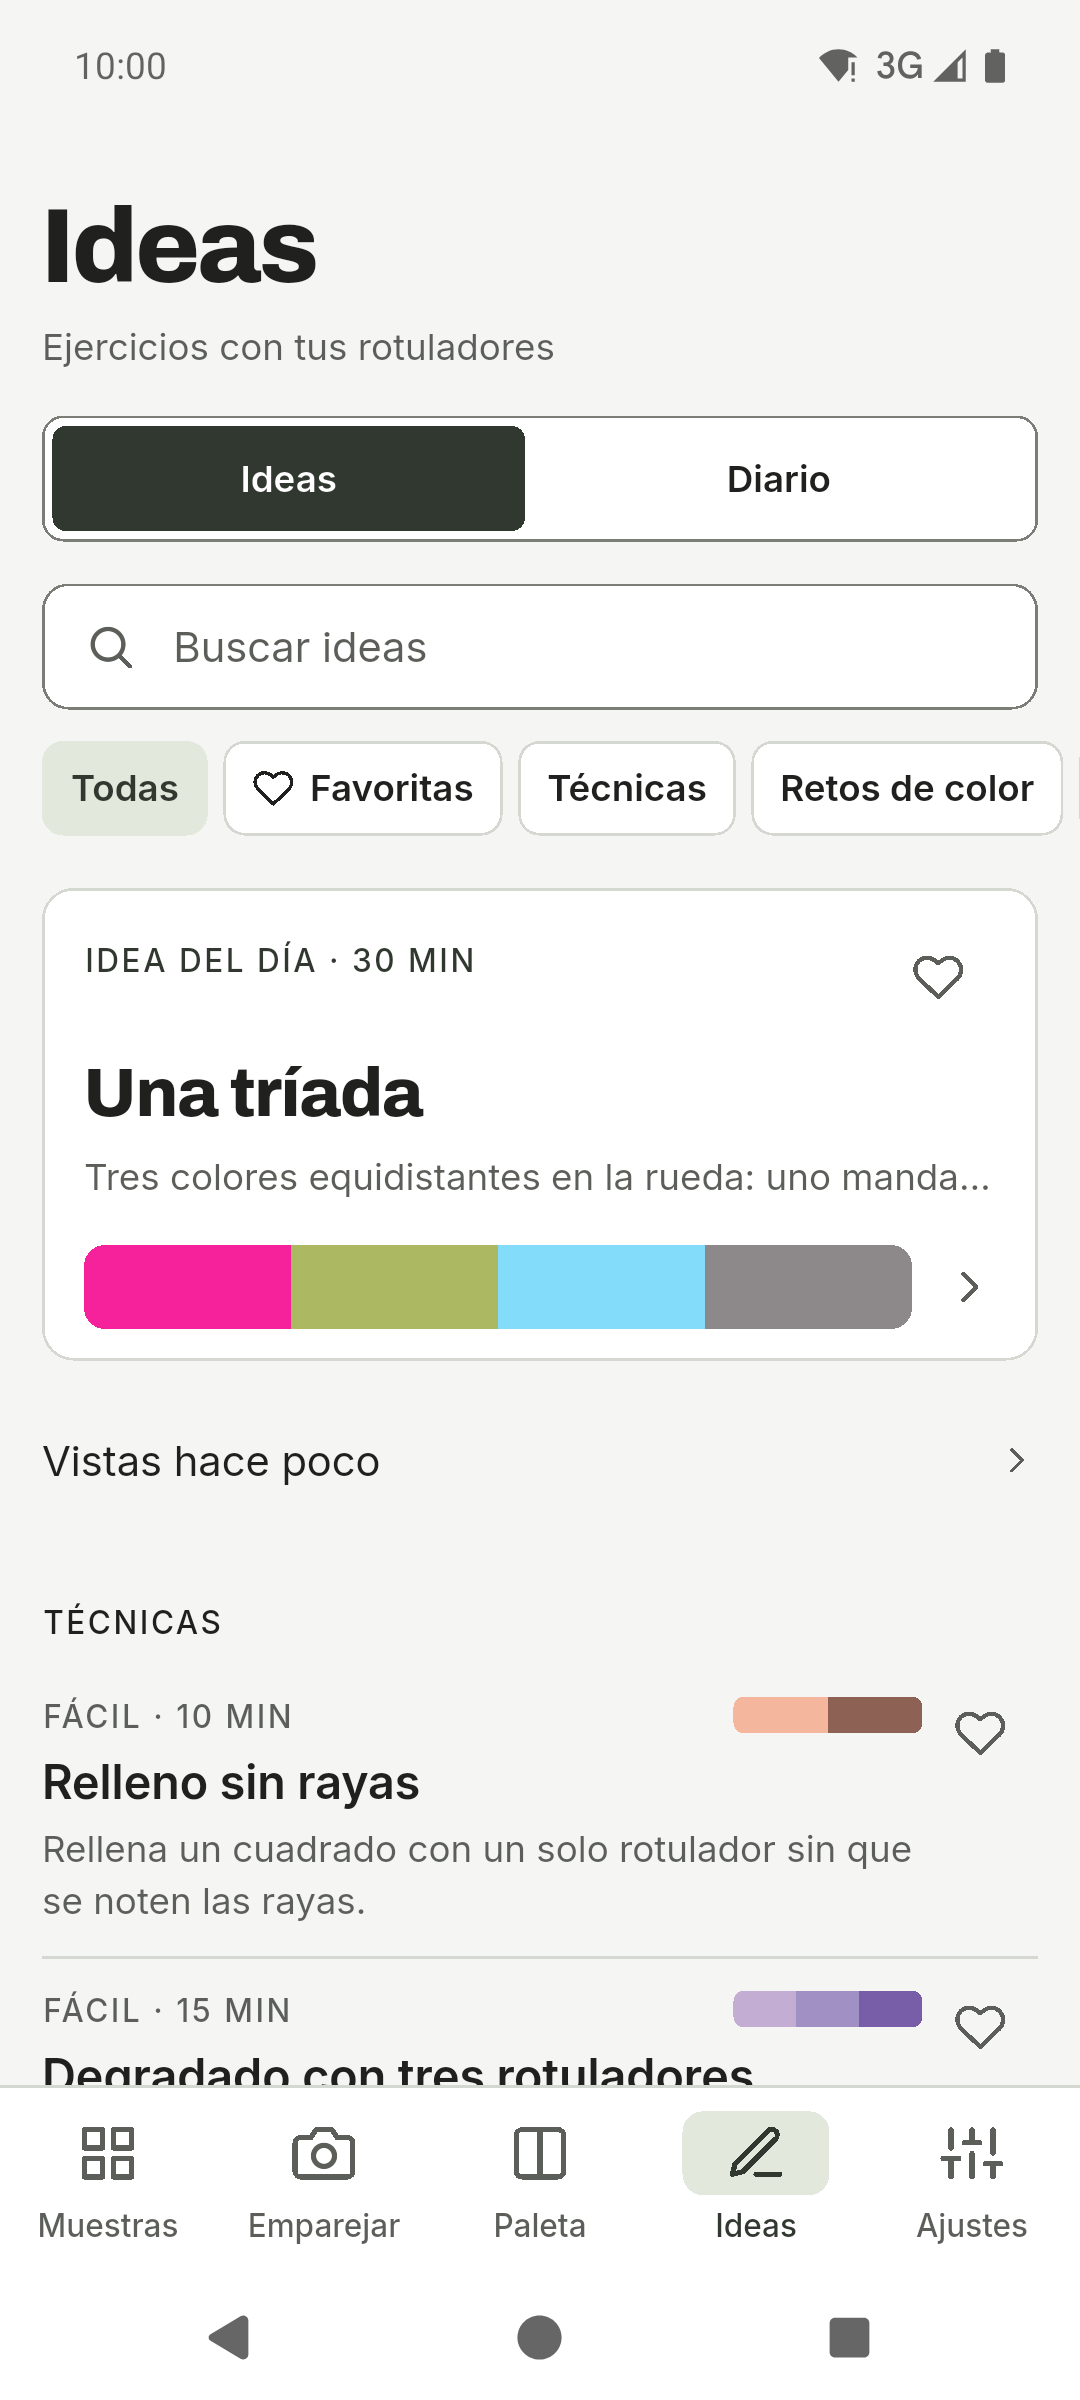
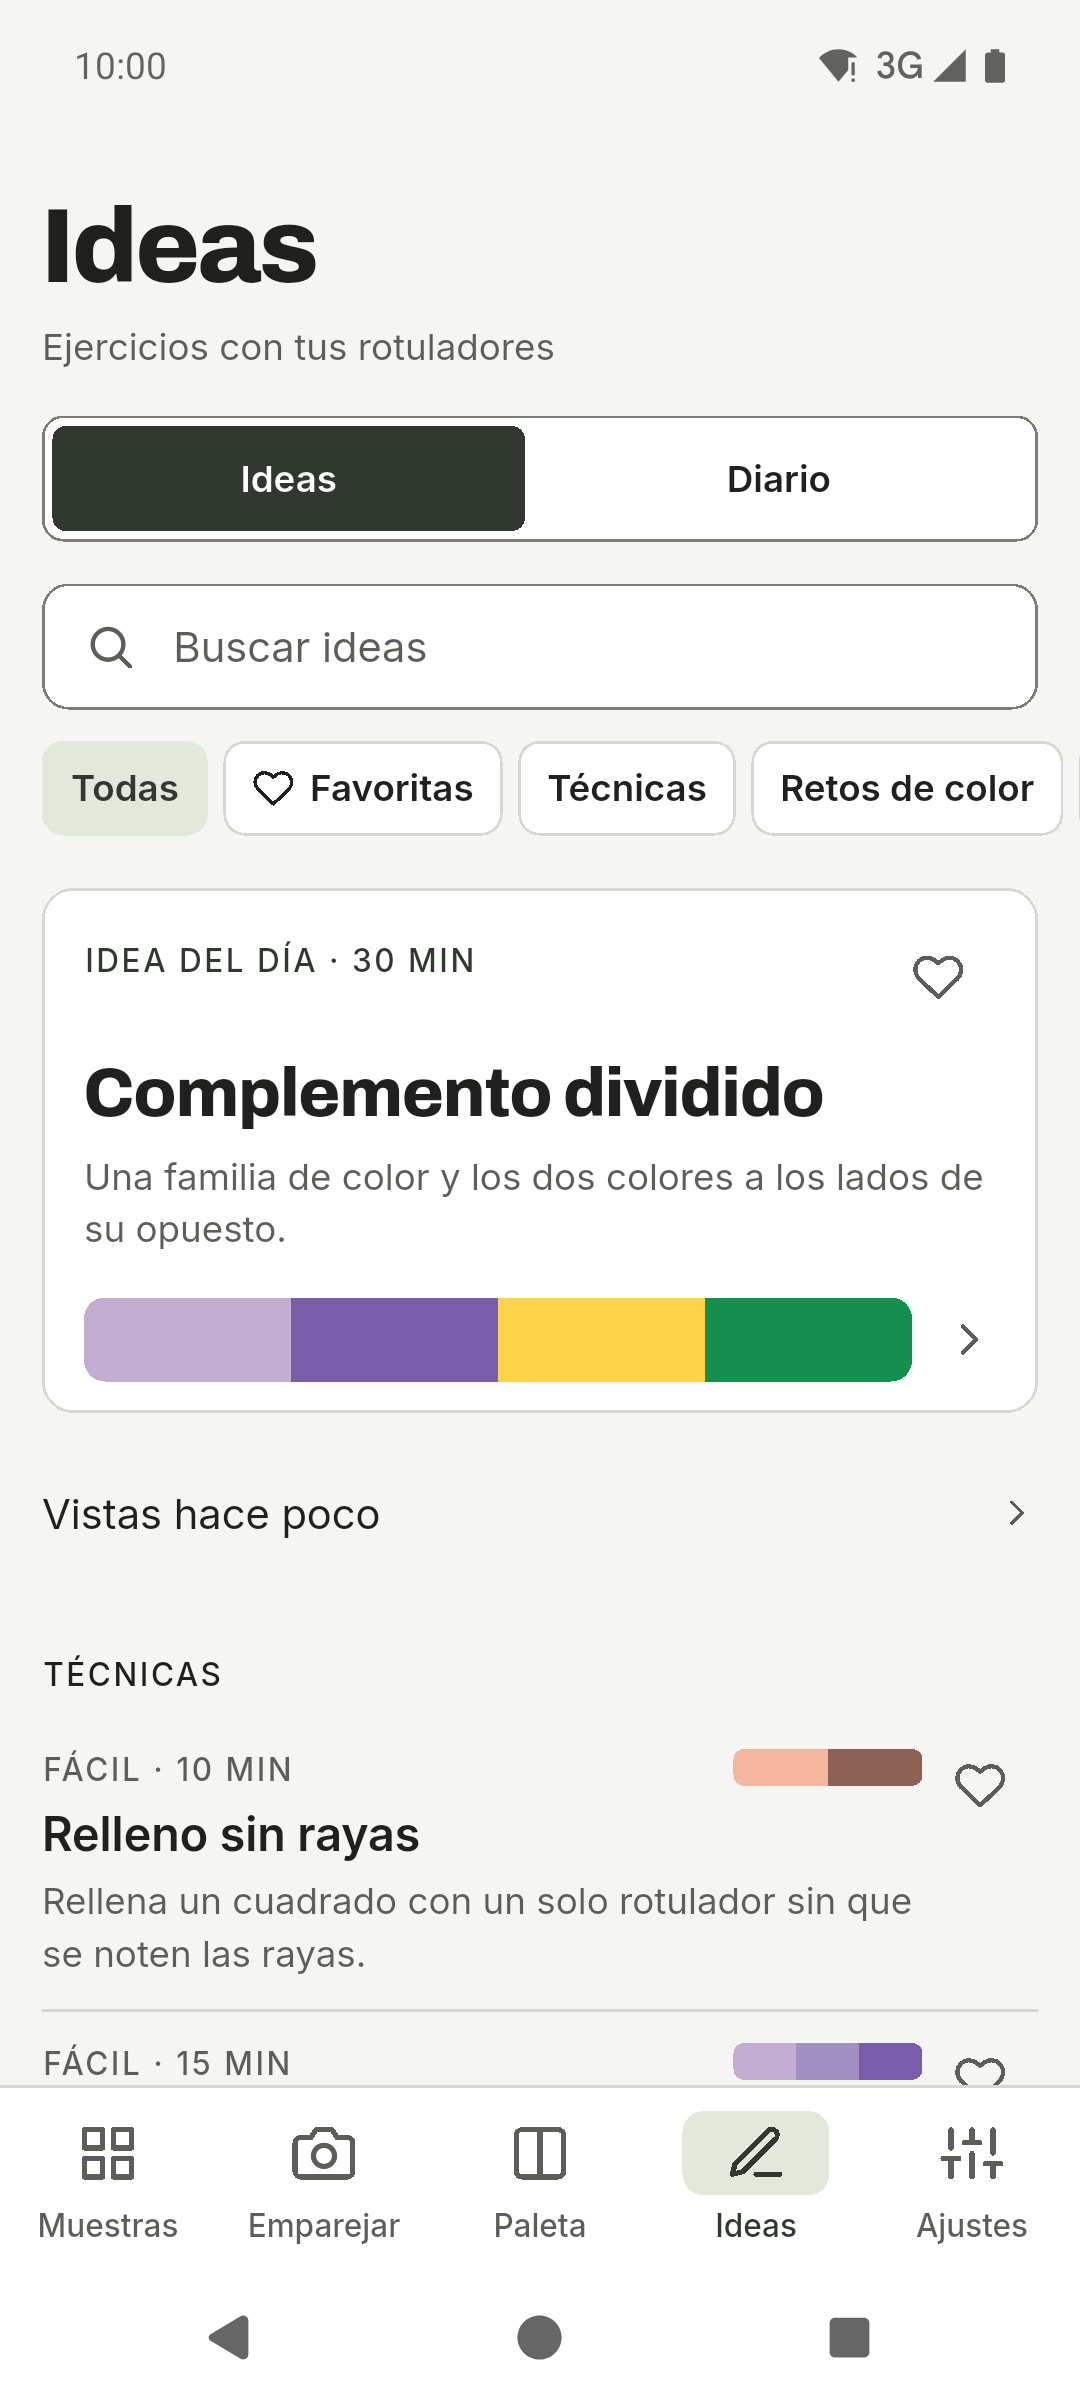
Ink Lab 1.2.1
- Idea descriptions now show in full, in the idea sheet and on the idea of the day, instead of being cut
  with «…».
- The idea sheet opens a little higher, so «Use in Palette» is always on view.
- Closing an idea no longer puts the cursor and keyboard back in the search field.
- Two-line colour names fit their card in the Swatches grid at large text sizes.

diff --git a/test/ui/ideas/ideas_page_test.dart b/test/ui/ideas/ideas_page_test.dart
@@ -30,6 +30,10 @@ List<String> _markerSteps(IdeaPreset preset) => <String>[
 ];
 
 void main() {
+  // The real fonts: the summary wraps in full now, and the test font (one em
+  // per glyph) would make it far longer than any language does.
+  setUpAll(loadAppFonts);
+
   testWidgets('renders the intro, the idea of the day and the list', (
     WidgetTester tester,
   ) async {
@@ -100,7 +104,10 @@ void main() {
     // What you practise, what to draw, the tip and the materials are folded
     // behind "More details".
     expect(_key('ideas-details-one_color'), findsOneWidget);
-    expect(find.text(AppTypography.caps(l10n.ideasPracticeTitle)), findsNothing);
+    expect(
+      find.text(AppTypography.caps(l10n.ideasPracticeTitle)),
+      findsNothing,
+    );
     await tester.tap(_key('ideas-details-one_color'));
     await tester.pumpAndSettle();
     for (final String title in <String>[
@@ -142,31 +149,37 @@ void main() {
     expect(after, isNot(before));
   });
 
-  testWidgets('the sheet opens at half height with "Use in Palette" on view', (
-    WidgetTester tester,
-  ) async {
-    await pumpIdeas(tester, size: const Size(360, 740));
-    final IdeaPreset featured = IdeasEngine.featuredFor(DateTime(2026, 10, 29));
+  testWidgets(
+    'the sheet opens a little above half height with "Use in Palette" on view',
+    (WidgetTester tester) async {
+      await pumpIdeas(tester, size: const Size(360, 740));
+      final IdeaPreset featured = IdeasEngine.featuredFor(
+        DateTime(2026, 10, 29),
+      );
 
-    await tester.tap(_key('ideas-open-${featured.id}'));
-    await tester.pumpAndSettle();
+      await tester.tap(_key('ideas-open-${featured.id}'));
+      await tester.pumpAndSettle();
 
-    final Rect sheet = tester.getRect(find.byType(InkSheet));
-    // Half of 740.
-    expect(sheet.top, moreOrLessEquals(370, epsilon: 2));
-    // The primary action is on view without scrolling.
-    final Finder apply = _key('ideas-apply-${featured.id}');
-    expect(apply, findsOneWidget);
-    final Rect button = tester.getRect(apply);
-    expect(button.bottom, lessThanOrEqualTo(sheet.bottom + 0.5));
-    expect(button.height, greaterThanOrEqualTo(InkGeometry.target));
-    // The "⋯" menu offers the diary and other markers.
-    await tester.tap(find.byTooltip(l10n.commonMoreActions));
-    await tester.pumpAndSettle();
-    expect(find.text(l10n.diaryAdd), findsOneWidget);
-    expect(find.text(l10n.ideasOtherMarkersButton), findsOneWidget);
-    expect(_key('ideas-other-${featured.id}'), findsOneWidget);
-  });
+      final Rect sheet = tester.getRect(find.byType(InkSheet));
+      // 60 % of 740.
+      expect(
+        sheet.top,
+        moreOrLessEquals(740 * (1 - ideaSheetHeight), epsilon: 2),
+      );
+      // The primary action is on view without scrolling.
+      final Finder apply = _key('ideas-apply-${featured.id}');
+      expect(apply, findsOneWidget);
+      final Rect button = tester.getRect(apply);
+      expect(button.bottom, lessThanOrEqualTo(sheet.bottom + 0.5));
+      expect(button.height, greaterThanOrEqualTo(InkGeometry.target));
+      // The "⋯" menu offers the diary and other markers.
+      await tester.tap(find.byTooltip(l10n.commonMoreActions));
+      await tester.pumpAndSettle();
+      expect(find.text(l10n.diaryAdd), findsOneWidget);
+      expect(find.text(l10n.ideasOtherMarkersButton), findsOneWidget);
+      expect(_key('ideas-other-${featured.id}'), findsOneWidget);
+    },
+  );
 
   testWidgets('"Use in Palette" hands over roles, opens Palette and confirms', (
     WidgetTester tester,

diff --git a/lib/ui/widgets/color_swatch_tile.dart b/lib/ui/widgets/color_swatch_tile.dart
@@ -200,6 +200,10 @@ class ColorSwatchTile extends StatelessWidget {
       _codeLine = 22;
   static const double _nameLine = 20, _hexLine = 16, _minBlock = 32;
 
+  // The font sizes behind those line heights (the code is 16/22, the name
+  // 14/20, the hex 12/16): the system scales the font size, not the line.
+  static const double _codeSize = 16, _nameSize = 14, _hexSize = 12;
+
   /// The height of a grid cell that holds the colour block, the code, two name
   /// lines and the hex line (spec §4 "Swatch cell").
   ///
@@ -207,20 +211,23 @@ class ColorSwatchTile extends StatelessWidget {
   /// with fixed lines a second name line would be cut at the card's bottom edge
   /// at large text sizes. A cell without the hex (the grid) is one line
   /// shorter.
-  static double gridCellHeight(
-    BuildContext context, {
-    bool showHex = true,
-  }) =>
+  static double gridCellHeight(BuildContext context, {bool showHex = true}) =>
       InkGeometry.swatchBlockHeight +
       _bodyTop +
       _bodyBottom +
-      _line(context, _codeLine) +
-      2 * _line(context, _nameLine) +
-      (showHex ? _line(context, _hexLine) : 0);
+      _line(context, _codeLine, _codeSize) +
+      2 * _line(context, _nameLine, _nameSize) +
+      (showHex ? _line(context, _hexLine, _hexSize) : 0);
 
-  /// [height], a line height at scale 1, as the system text scale makes it.
-  static double _line(BuildContext context, double height) =>
-      MediaQuery.textScalerOf(context).scale(height);
+  /// [height], a line height at scale 1 of a text of [fontSize], as the system
+  /// text scale makes it.
+  ///
+  /// The scaler is asked for the font size, as the text does: Android scales
+  /// text non-linearly (a 14 sp name grows more than a 20 sp line would), so
+  /// scaling the line itself came out too short at large text sizes and cut
+  /// the second line of a name at the card's bottom edge.
+  static double _line(BuildContext context, double height, double fontSize) =>
+      MediaQuery.textScalerOf(context).scale(fontSize) * height / fontSize;
 
   /// The grid delegate for a grid of [ColorSwatchTile]s, from the system text
   /// scale and whether the cells show the hex (the grid leaves it out).
@@ -240,9 +247,9 @@ class ColorSwatchTile extends StatelessWidget {
     final InkColors ink = InkColors.of(context);
     final Color background = swatchColor(hex);
     final Color onSwatch = inkOn(background);
-    final double codeLine = _line(context, _codeLine);
-    final double nameLine = _line(context, _nameLine);
-    final double hexLine = _line(context, _hexLine);
+    final double codeLine = _line(context, _codeLine, _codeSize);
+    final double nameLine = _line(context, _nameLine, _nameSize);
+    final double hexLine = _line(context, _hexLine, _hexSize);
 
     return Semantics(
       button: onTap != null,
@@ -300,7 +307,8 @@ class ColorSwatchTile extends StatelessWidget {
                   // A second name line only when the block keeps its 72.
                   final double secondLine =
                       nameLine + InkGeometry.swatchBlockHeight - _minBlock;
-                  if (nameLines == 1 && budget >= secondLine) {
+                  // (a hair of tolerance for the rounding of scaled lines)
+                  if (nameLines == 1 && budget + 0.01 >= secondLine) {
                     nameLines = 2;
                   }
                 }

diff --git a/lib/ui/pages/ideas/ideas_page.dart b/lib/ui/pages/ideas/ideas_page.dart
@@ -263,8 +263,15 @@ class _IdeasPageState extends State<IdeasPage> {
     if (favorites != null) {
       unawaited(favorites.recordViewed(preset.id).catchError((Object _) {}));
     }
+    // Let go of the search field first: the route would give it the focus
+    // back when the sheet closes (cursor and keyboard back on the page).
+    FocusManager.instance.primaryFocus?.unfocus();
     final IdeaPlan? applied = await showInkDraggableSheet<IdeaPlan>(
       context: context,
+      // A little above half height, so "Use in Palette" stays on view when
+      // the title or the summary takes a few lines (de, fr).
+      initial: ideaSheetHeight,
+      snaps: const <double>[ideaSheetHeight],
       builder: (BuildContext context, ScrollController scroll) =>
           IdeaDetailSheet(
             initial: initial,
@@ -683,6 +690,11 @@ class _IdeasPageState extends State<IdeasPage> {
 
 /// How many ideas of each category the overview ("All") shows before its
 /// "See all" row.
+/// How high an idea sheet opens, as a share of the screen: enough for
+/// "Use in Palette" to be on view on a 740 dp phone with the longest title
+/// and summary in every language.
+const double ideaSheetHeight = 0.6;
+
 const int _overviewShown = 3;
 
 /// A caps heading above a run of ideas (a difficulty, a season, a category).
@@ -847,7 +859,9 @@ class _FeaturedCard extends StatelessWidget {
                             message: eyebrow,
                             child: Text(
                               eyebrow,
-                              maxLines: 1,
+                              // Two lines at most: at large text the
+                              // minutes would otherwise be cut off.
+                              maxLines: 2,
                               overflow: TextOverflow.ellipsis,
                               style: AppTypography.capsStyle.copyWith(
                                 color: ink.action,
@@ -875,14 +889,10 @@ class _FeaturedCard extends StatelessWidget {
                     ),
                   ),
                   const SizedBox(height: InkSpacing.group),
-                  Tooltip(
-                    message: summary,
-                    child: Text(
-                      summary,
-                      maxLines: 1,
-                      overflow: TextOverflow.ellipsis,
-                      style: AppTypography.secondary.copyWith(color: ink.fg2),
-                    ),
+                  // The whole description, wrapped, like the list rows.
+                  Text(
+                    summary,
+                    style: AppTypography.secondary.copyWith(color: ink.fg2),
                   ),
                   const SizedBox(height: InkSpacing.block),
                   Row(

diff --git a/lib/ui/pages/ideas/idea_detail_sheet.dart b/lib/ui/pages/ideas/idea_detail_sheet.dart
@@ -16,7 +16,7 @@ import '../../widgets/palette_strip.dart';
 import 'ideas_page.dart' show IdeaHeartButton, ideaMetaLine;
 
 /// The detail of one idea, inside a draggable ink sheet (0.9 review §2.3):
-/// the title with its heart, the meta line, a one-line summary, the palette
+/// the title with its heart, the meta line, the summary, the palette
 /// picked from the collection with "Use in Palette" as the only action on
 /// view, the steps and, folded away, what you practise, what to draw, a tip
 /// and the materials.
@@ -168,15 +168,10 @@ class _IdeaDetailSheetState extends State<IdeaDetailSheet> {
           style: AppTypography.capsStyle.copyWith(color: ink.fg2),
         ),
         const SizedBox(height: InkSpacing.group),
-        // One line: the whole summary is one long-press away.
-        Tooltip(
-          message: l10n.ideaSummary(_preset),
-          child: Text(
-            l10n.ideaSummary(_preset),
-            maxLines: 1,
-            overflow: TextOverflow.ellipsis,
-            style: AppTypography.secondary.copyWith(color: ink.fg2),
-          ),
+        // The whole summary, wrapped: it is the idea's description.
+        Text(
+          l10n.ideaSummary(_preset),
+          style: AppTypography.secondary.copyWith(color: ink.fg2),
         ),
         const SizedBox(height: InkSpacing.block),
         ..._buildMarkers(context, caps, body, palette),

diff --git a/lib/core/app_version.dart b/lib/core/app_version.dart
@@ -2,4 +2,4 @@
 ///
 /// Keep it equal to the `version:` (before the `+`) in `pubspec.yaml`; a test
 /// (`test/core/app_version_test.dart`) fails when they drift apart.
-const String appVersion = '1.2.0';
+const String appVersion = '1.2.1';

diff --git a/CHANGELOG.md b/CHANGELOG.md
@@ -10,6 +10,16 @@ and the App Store may get several at once, so they can skip numbers.
 
 ## Unreleased
 
+## 1.2.1 · 2026-11-09
+
+Small fixes to the Ideas tab and the Swatches grid.
+
+- Idea descriptions now show in full, in the idea sheet and on the idea of the day, instead of being cut
+  with «…».
+- The idea sheet opens a little higher, so «Use in Palette» is always on view.
+- Closing an idea no longer puts the cursor and keyboard back in the search field.
+- Two-line colour names fit their card in the Swatches grid at large text sizes.
+
 ## 1.2.0 · 2026-11-08
 
 100 ideas instead of 28, organised so they are easy to browse, and a tidier side menu on tablets.

diff --git a/README.fr.md b/README.fr.md
@@ -140,7 +140,7 @@ sauvegarde `.zip`, le fichier ne va qu’à l’appli que tu choisis, et nulle p
 
 ## Nouveautés
 
-La version 1.2.0 apporte 100 idées au lieu de 28, rangées par difficulté et par saison pour les trouver
+La version 1.2.1 affiche les descriptions des idées en entier et corrige de petits défauts d’affichage. La 1.2.0 a apporté 100 idées au lieu de 28, rangées par difficulté et par saison pour les trouver
 facilement, et un menu latéral plus net sur les tablettes. La liste complète est dans
 [CHANGELOG.md](CHANGELOG.md) et dans les
 [versions](https://github.com/dferrandizmont/ink-lab/releases).

diff --git a/README.de.md b/README.de.md
@@ -136,7 +136,7 @@ werden nie hochgeladen. Beim Teilen einer Palette, einer Farbkarte oder der
 
 ## Neuerungen
 
-Version 1.2.0 bringt 100 Ideen statt 28, nach Schwierigkeit und Jahreszeit geordnet, damit du sie leicht
+Version 1.2.1 zeigt Ideenbeschreibungen vollständig und behebt kleine Anzeigefehler. Version 1.2.0 brachte 100 Ideen statt 28, nach Schwierigkeit und Jahreszeit geordnet, damit du sie leicht
 findest, und ein aufgeräumteres Seitenmenü auf Tablets. Die vollständige Liste steht in
 [CHANGELOG.md](CHANGELOG.md) und in den
 [Releases](https://github.com/dferrandizmont/ink-lab/releases).

diff --git a/README.es.md b/README.es.md
@@ -136,7 +136,7 @@ se entrega a la app que elijas, y nada más.
 
 ## Novedades
 
-La versión 1.2.0 trae 100 ideas en vez de 28, agrupadas por dificultad y por estación para encontrarlas
+La versión 1.2.1 muestra enteras las descripciones de las ideas y corrige pequeños detalles de pantalla. La 1.2.0 trajo 100 ideas en vez de 28, agrupadas por dificultad y por estación para encontrarlas
 fácilmente, y un menú lateral más limpio en tablets. La lista completa está en
 [CHANGELOG.md](CHANGELOG.md) y en las
 [versiones](https://github.com/dferrandizmont/ink-lab/releases).

diff --git a/README.it.md b/README.it.md
@@ -139,7 +139,7 @@ all’app che scegli, e da nessun’altra parte.
 
 ## Novità
 
-La versione 1.2.0 porta 100 idee invece di 28, ordinate per difficoltà e per stagione per trovarle
+La versione 1.2.1 mostra per intero le descrizioni delle idee e corregge piccoli difetti di visualizzazione. La 1.2.0 ha portato 100 idee invece di 28, ordinate per difficoltà e per stagione per trovarle
 facilmente, e un menu laterale più ordinato sui tablet. L’elenco completo è in
 [CHANGELOG.md](CHANGELOG.md) e nelle
 [versioni](https://github.com/dferrandizmont/ink-lab/releases).

diff --git a/README.md b/README.md
@@ -131,7 +131,7 @@ Sharing a palette, a chart or the `.zip` backup hands the file to the app you pi
 
 ## What's new
 
-Version 1.2.0 brings 100 ideas instead of 28, grouped by difficulty and by season so they are easy to
+Version 1.2.1 shows idea descriptions in full and fixes a few small display issues. Version 1.2.0 brought 100 ideas instead of 28, grouped by difficulty and by season so they are easy to
 browse, and a tidier side menu on tablets. Full list in [CHANGELOG.md](CHANGELOG.md) and in the
 [releases](https://github.com/dferrandizmont/ink-lab/releases).
 

diff --git a/README.pt.md b/README.pt.md
@@ -137,7 +137,7 @@ para a app que escolheres, e mais nada.
 
 ## Novidades
 
-A versão 1.2.0 traz 100 ideias em vez de 28, organizadas por dificuldade e por estação para as encontrares
+A versão 1.2.1 mostra as descrições das ideias completas e corrige pequenos detalhes de ecrã. A 1.2.0 trouxe 100 ideias em vez de 28, organizadas por dificuldade e por estação para as encontrares
 facilmente, e um menu lateral mais limpo nos tablets. A lista completa está em
 [CHANGELOG.md](CHANGELOG.md) e nas
 [versões](https://github.com/dferrandizmont/ink-lab/releases).
